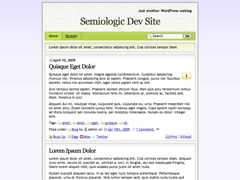
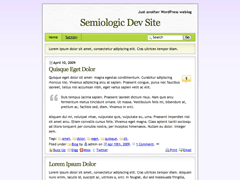
update screenshots + font tweak
git-svn-id: file:///Users/michaelkoepke/svn/semiologic/themes/sem-reloaded/trunk@3317 6c9c31c4-cb3d-4424-af3d-876279169c7e

Changed region(s): [[0.175, 0.0, 0.8458, 1.0]]

diff --git a/style.css b/style.css
@@ -555,7 +555,7 @@ h2 a {
 }
 
 div.entry_date,
-.post_list_date,
+h3.post_list_date,
 .comment_date,
 .pings_date {
 	font-weight: bold;
